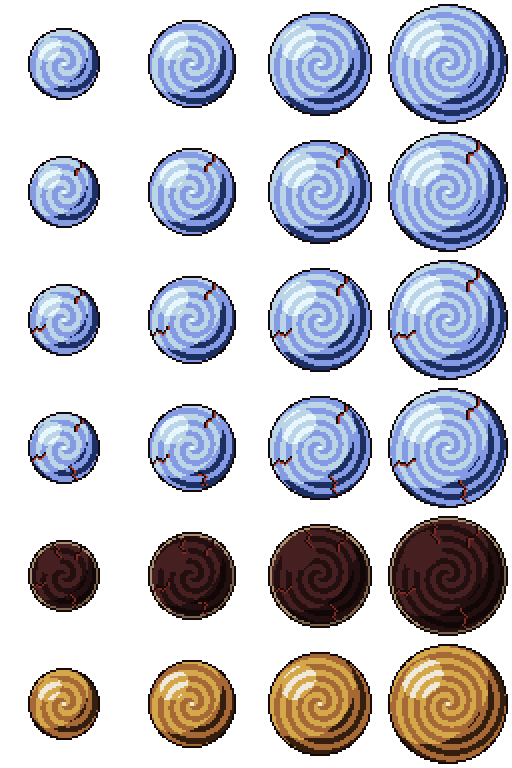
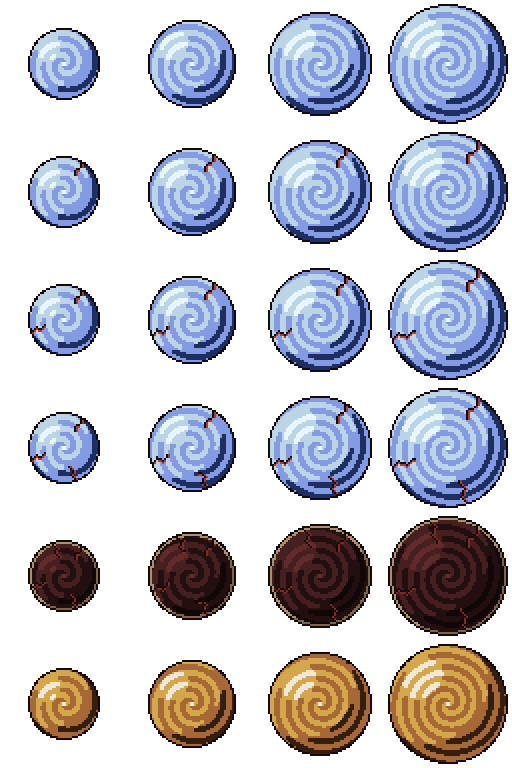
fix(tribulation): clean the core's shading and drop the drawer stylebox
Where the core's light zones cut the swirl's arms they left 1-cell
slivers (33, 24, 35 and 39 at r = 17, 21, 25 and 29). In the shade they
drew stepped dark hairlines, which read as cracks on the uncracked core,
the one piece the player watches for cracks. core_tones() now gives each
sliver the tone its two agreeing neighbours share, and then gives a
speck of up to 4 cells the tone that encloses it. The one such speck, a
dark 2x2 dot at r = 17, is what filling a hairline left. Every row
shares core_tones(), so the spent and passed cores are cleaned too.

The spent core's lit zone drew its arms and ground both in raised
lacquer, which flattened the carving there. Its arms are now in the rim
shade (#612B2B), so the swirl stays carved through the light.

drawer9.tres goes (Ruling M). STYLE_GUIDE section 11 stands growing
drawer faces on a NinePatchRect, not a stylebox, so the Tribulation
panels will use lacquer_drawer9_ai.png that way. Nothing referenced it.

test_uncracked_cores_have_no_slivers pins the clean shading on the
whole and passed rows.

Changed AI-made art: lacquer_trib_core_strip_ai.png, in
assets/ui/lacquer/tribulation/ and its review copy in
docs/superpowers/mockups/tribulation-lacquer/.

diff --git a/docs/superpowers/mockups/tribulation-lacquer/gen/kit_tribulation.py b/docs/superpowers/mockups/tribulation-lacquer/gen/kit_tribulation.py
@@ -184,9 +184,10 @@ SWIRL_TWIST = 1.1                    # core_orb's: radians a px out, so the arms
 
 # One tone ramp per state, darkest to lightest. The whole core's is the Madra ramp and the
 # others swap it colour for colour: the passed core is the whole one in brass, and the spent
-# one carved lacquer with no highlight (its lit zone stays raised), a tan rim and dull cracks.
+# one carved lacquer (its lit zone's arms in the rim shade, so the carving carries through the
+# light), with a tan rim and dull cracks.
 MADRA_RAMP = (M_DEEP, M_MID, M_PALE, M_HI)
-CARVED_RAMP = (SOCKET, DEEP, RAISED, RAISED)
+CARVED_RAMP = (SOCKET, DEEP, RAISED, RIM_S)
 BRASS_RAMP = (WARM_OL, BRASS_SH, BRASS, CREAM)
 
 
@@ -224,7 +225,61 @@ def core_tones(r):
             tones[(x, y)] = ground + (1 if _on_arm(x, y) else 0)
             if d < 1.2:
                 tones[(x, y)] = 3            # core_orb's bright centre
+    _fill_slivers(tones)
+    _fill_specks(tones)
     return tones
+
+
+SLIVER_PASSES = 8
+SPECK_CELLS = 4
+
+
+def _fill_slivers(tones):
+    """Gives every 1-cell sliver the tone its two agreeing neighbours share: a cell whose left and
+    right (or, failing those, upper and lower) neighbours agree on another tone. The light zones
+    leave such slivers where they cut the swirl's arms (the swirl alone leaves none), and in the
+    shade they draw stepped dark hairlines that read as cracks on a whole core. Each pass reads
+    the last one's tones, so the result does not depend on the order of the cells."""
+    for _ in range(SLIVER_PASSES):
+        fills = {}
+        for (x, y), tone in tones.items():
+            if tone is None:
+                continue
+            for dx, dy in ((1, 0), (0, 1)):
+                a, b = tones.get((x - dx, y - dy)), tones.get((x + dx, y + dy))
+                if a is not None and a == b and a != tone:
+                    fills[(x, y)] = a
+                    break
+        if not fills:
+            return
+        tones.update(fills)
+    raise AssertionError(f'core: slivers left after {SLIVER_PASSES} passes')
+
+
+def _fill_specks(tones):
+    """Gives a speck of up to SPECK_CELLS cells the tone round it, when one tone encloses it: what
+    a sliver's fill can leave of a hairline (a dark dot on the r = 17 core), a pit on a whole core.
+    The bright centre is core_orb's and stays."""
+    seen = set()
+    for start, tone in list(tones.items()):
+        if tone is None or start in seen:
+            continue
+        speck, queue = [start], [start]
+        seen.add(start)
+        while queue:
+            x, y = queue.pop()
+            for n in ((x + 1, y), (x - 1, y), (x, y + 1), (x, y - 1)):
+                if n not in seen and tones.get(n) == tone:
+                    seen.add(n)
+                    speck.append(n)
+                    queue.append(n)
+        cells = set(speck)
+        around = {tones.get(n, None) for x, y in speck
+                  for n in ((x + 1, y), (x - 1, y), (x, y + 1), (x, y - 1)) if n not in cells}
+        if len(speck) <= SPECK_CELLS and len(around) == 1 and None not in around and (0, 0) not in cells:
+            fill = around.pop()
+            for cell in speck:
+                tones[cell] = fill
 
 
 def _crack_cells(angle, r):
